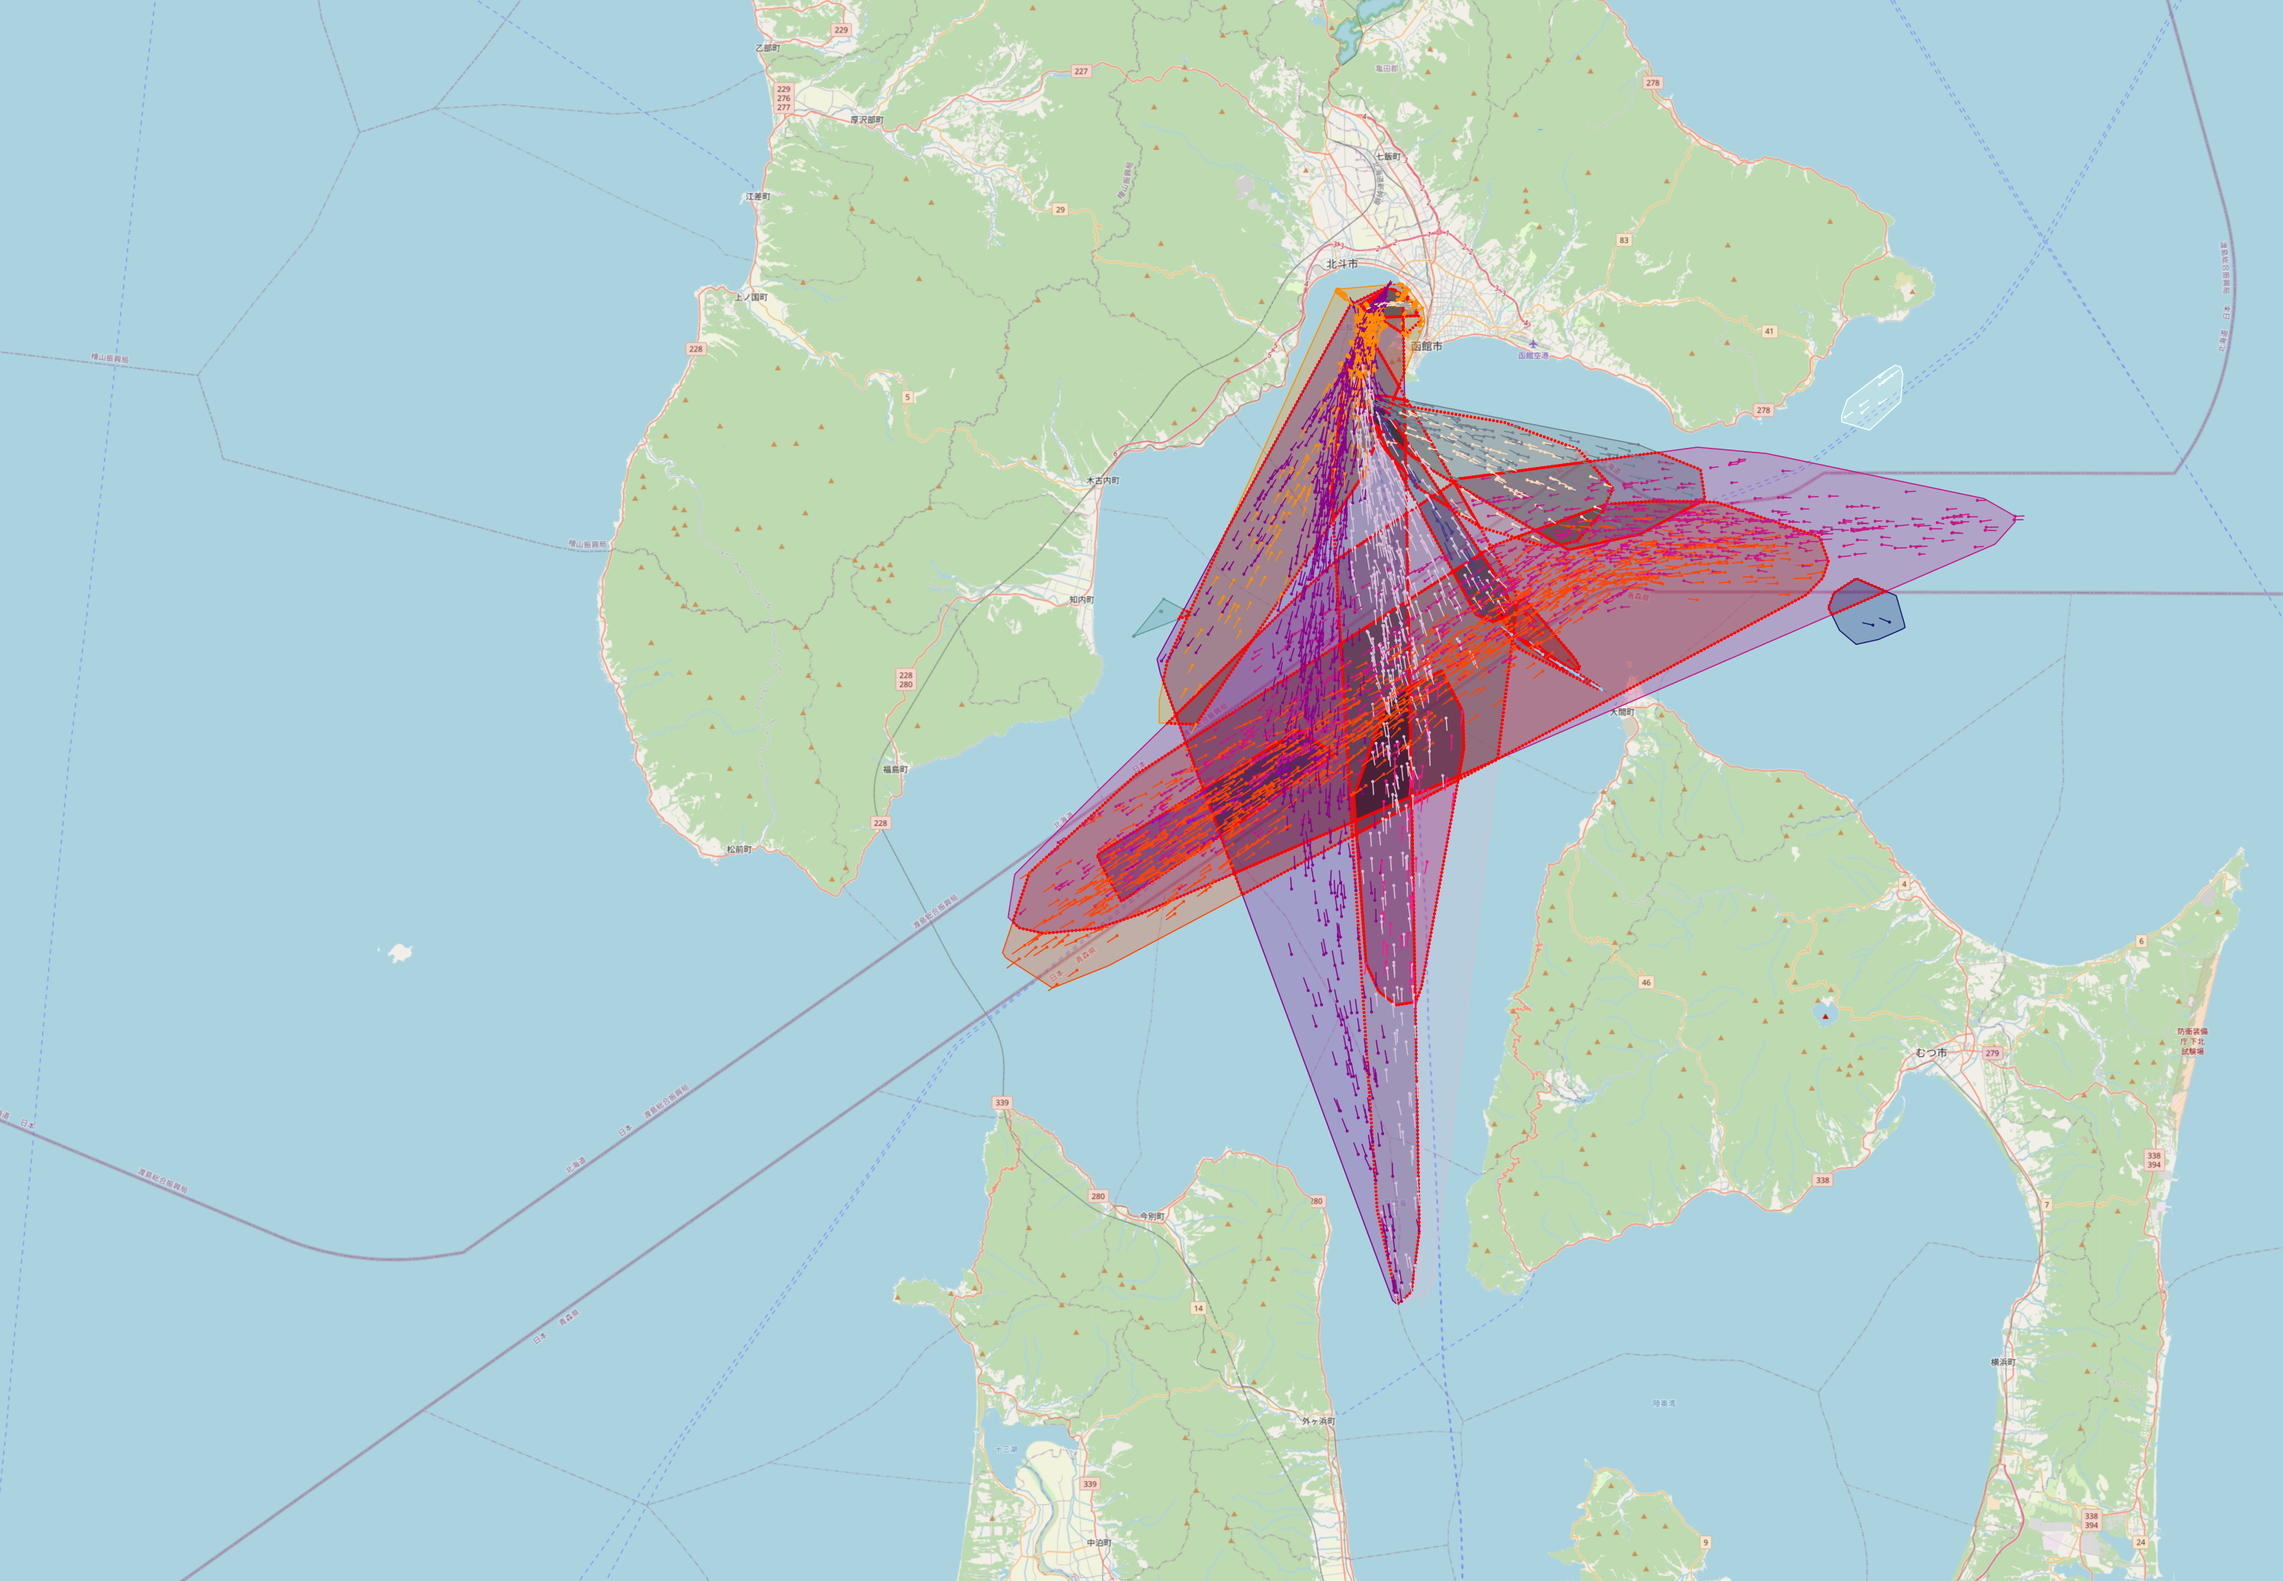
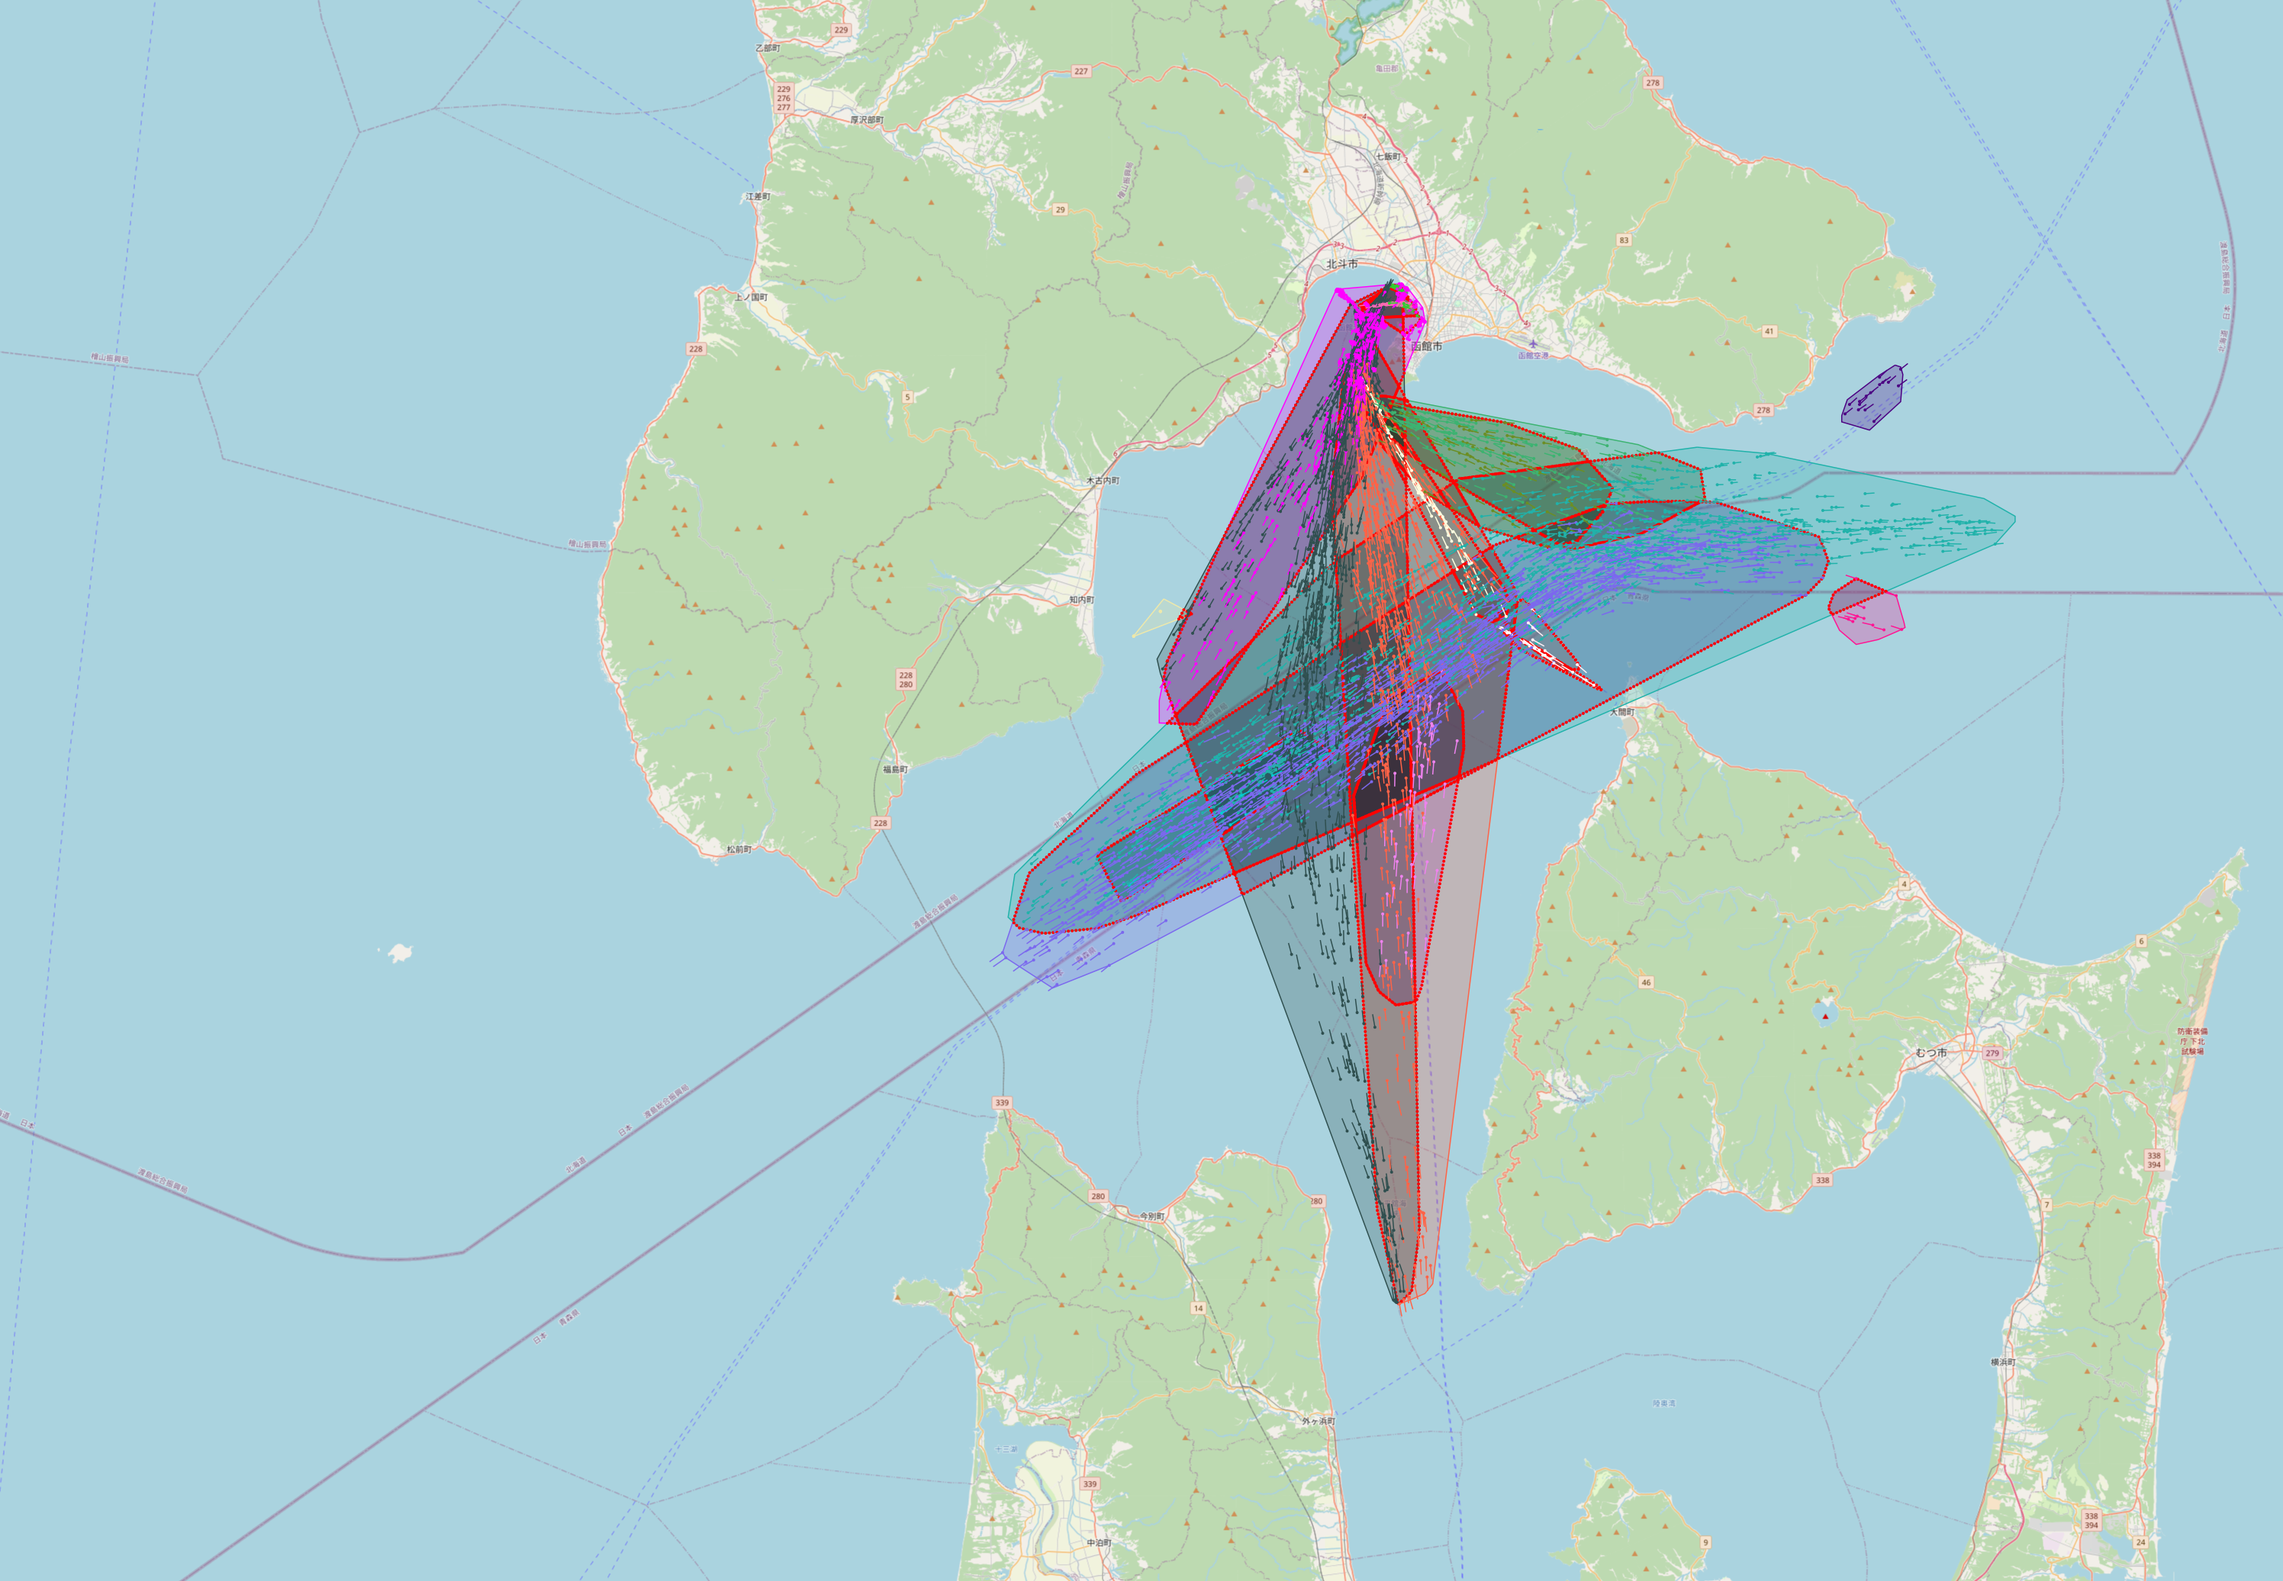
frac 0.15 -> 0.2

Changed region(s): [[0.4352, 0.1544, 0.9014, 0.834]]

diff --git a/CODE/Map/map.py b/CODE/Map/map.py
@@ -172,9 +172,8 @@ class MapBuilder:
                 self.map_image.write_to_png(f)
         f.close()
 
+    # Возможно стоит убрать мелкие кластеры...
     def create_clustered_map(self):
-        # Возможно стоит убрать мелкие кластеры...
-
         self.create_empty_map()
         # Удаляю шум, не уверен, стоит ли
         self.delete_noise()
@@ -183,7 +182,7 @@ class MapBuilder:
         self.show_intersections()
         self.show_intersection_bounds_points()
         # frac - можно выбрать, какую долю объектов нанести на карту
-        self.show_points(frac=0.15)
+        self.show_points(frac=0.2)
         self.save_clustered_image()
 
     def create_empty_map(self):
